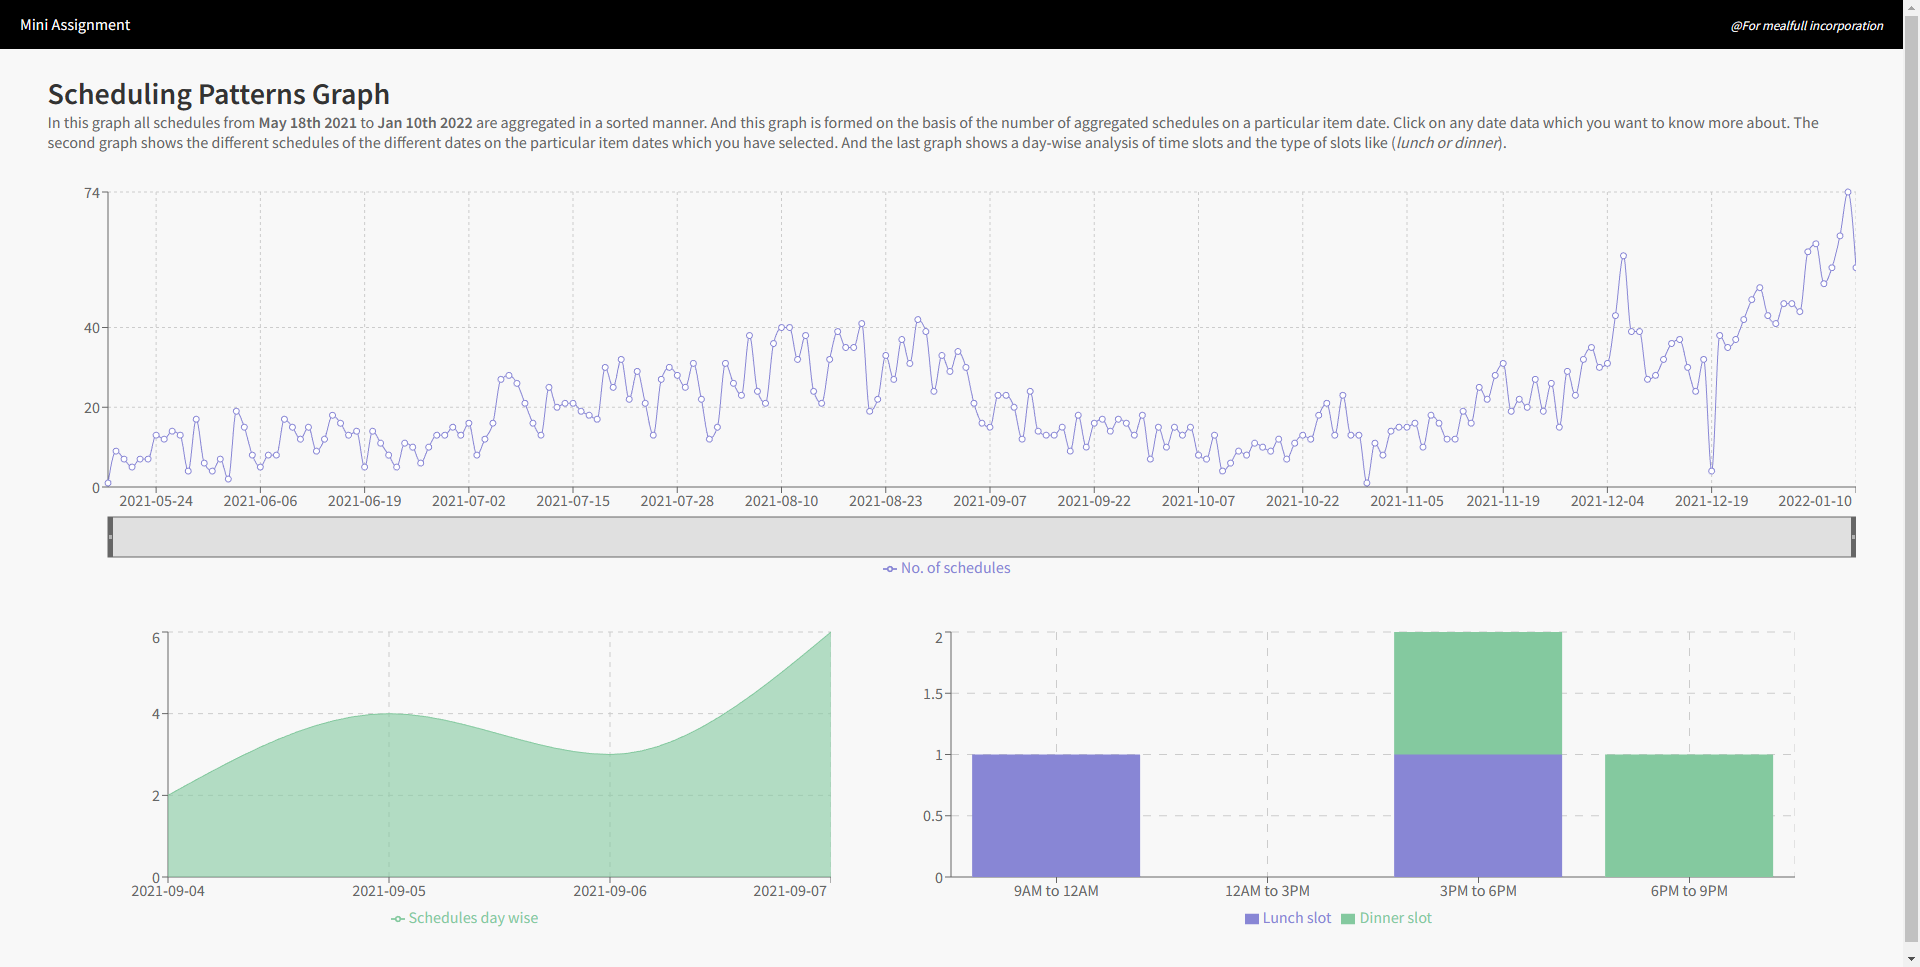
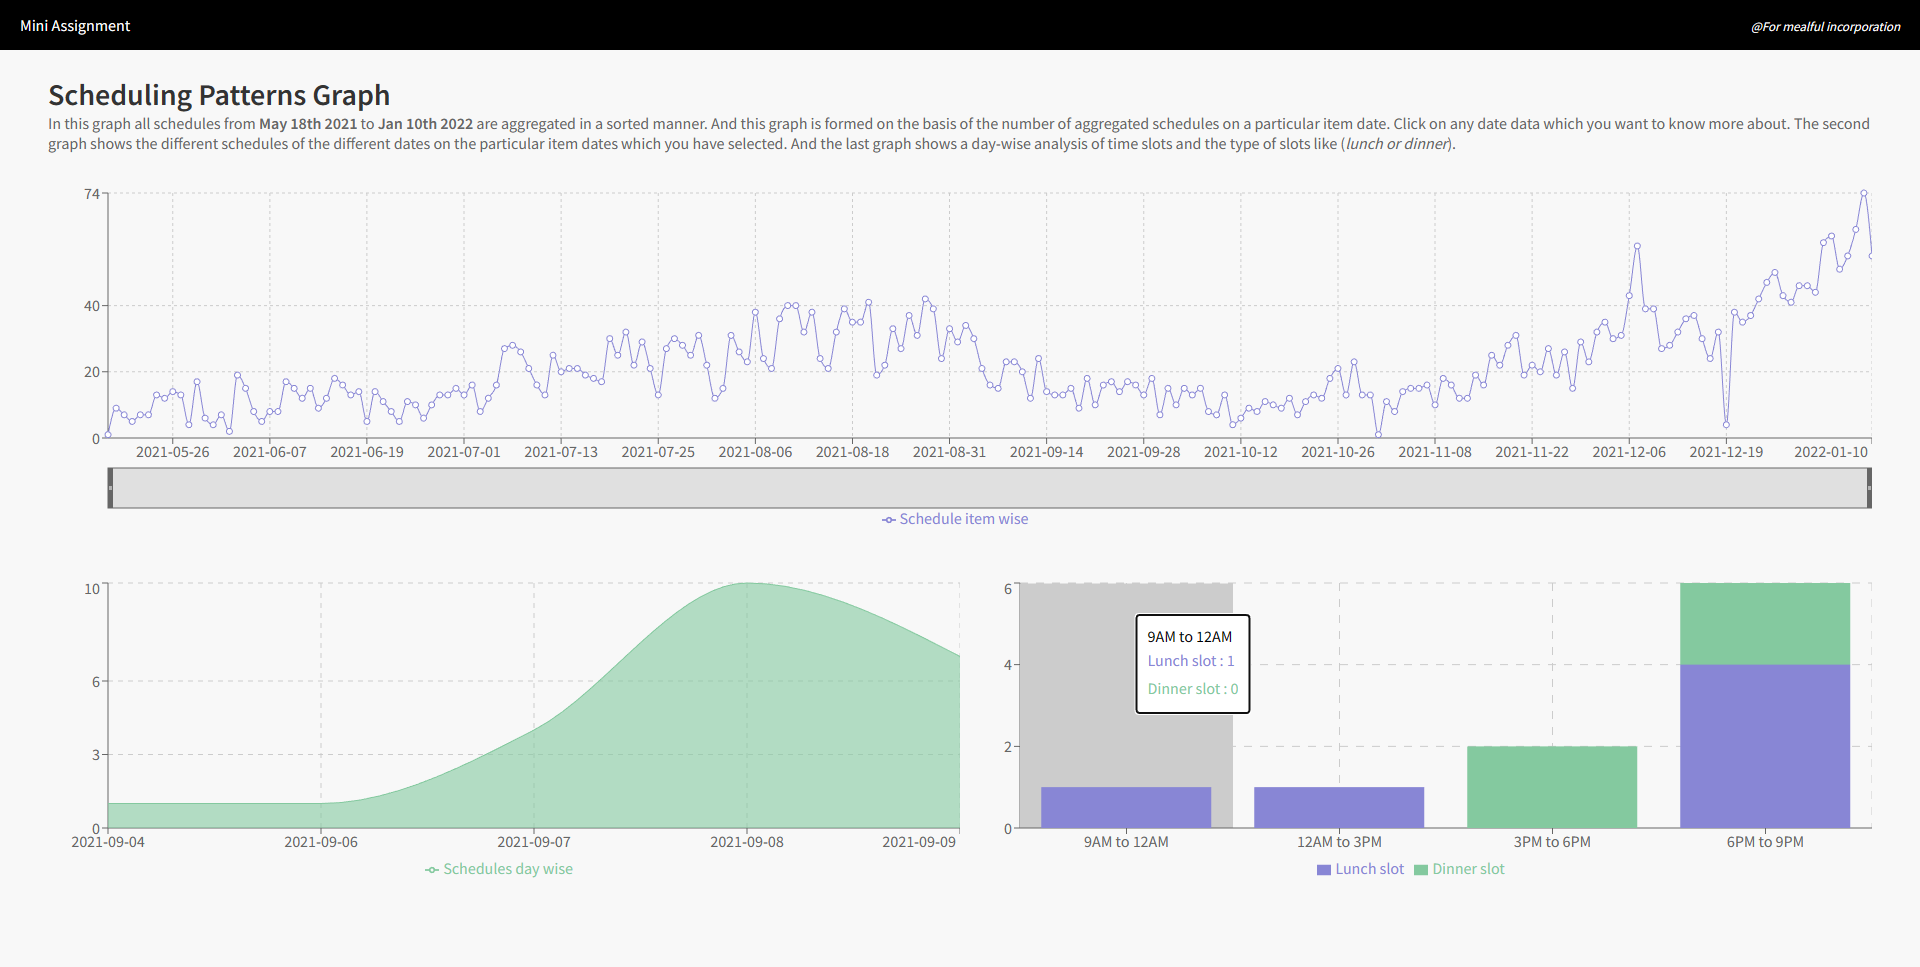
Improve graph positioning

Changed region(s): [[0.0, 0.0, 1.0, 0.9617], [0.0312, 0.3102, 0.0625, 0.3413], [0.0312, 0.0, 0.0625, 0.031]]

diff --git a/src/components/App.js b/src/components/App.js
@@ -11,7 +11,7 @@ function App() {
 
   return (
     <>
-      <nav>Mini Assignment<span>@For mealfull incorporation</span></nav>
+      <nav>Mini Assignment<span>@For mealful incorporation</span></nav>
       <div className="master-chart">
         <h3 className="heading">Scheduling Patterns Graph</h3>
         <p className="discription">In this graph all schedules from <b>{state.processedData.length && moment(state.processedData[0].item_date).format("MMM Do YYYY")}</b> to <b>{state.processedData.length && moment(state.processedData[state.processedData.length - 1].item_date).format("MMM Do YYYY")}</b> are aggregated in a sorted manner. And this graph is formed on the basis of the number of aggregated schedules on a particular item date. Click on any date data which you want to know more about. The second graph shows the different schedules of the different dates on the particular item dates which you have selected. And the last graph shows a day-wise analysis of time slots and the type of slots like (<i>lunch or dinner</i>).</p>

diff --git a/src/components/PatternsChart.js b/src/components/PatternsChart.js
@@ -47,7 +47,7 @@ const PatternsChart = () => {
         dispatch(actions.setScheduleData(nextState.activePayload[0].payload.schedule));
     }
 
-    return <ResponsiveContainer width="100%" height={400}>
+    return <ResponsiveContainer width="100%" height={350}>
         <LineChart
             width={1700}
             height={400}
@@ -63,7 +63,7 @@ const PatternsChart = () => {
             <Tooltip />
             <Legend />
             <Brush />
-            <Line type="monotone" name="No. of schedules" dataKey="schedule.length" stroke="#8884d8" activeDot={{ r: 8 }} />
+            <Line type="monotone" name="Schedule item wise" dataKey="schedule.length" stroke="#8884d8" activeDot={{ r: 8 }} />
         </LineChart>
     </ResponsiveContainer>
 }

diff --git a/src/components/ScheduleChart.js b/src/components/ScheduleChart.js
@@ -80,7 +80,7 @@ const ScheduleChart = () => {
         dispatch(actions.setDayData(newArr));
     }
 
-    return <ResponsiveContainer width="40%" height={300}>
+    return <ResponsiveContainer width="50%" height={300}>
         <AreaChart
             width={500}
             height={300}
